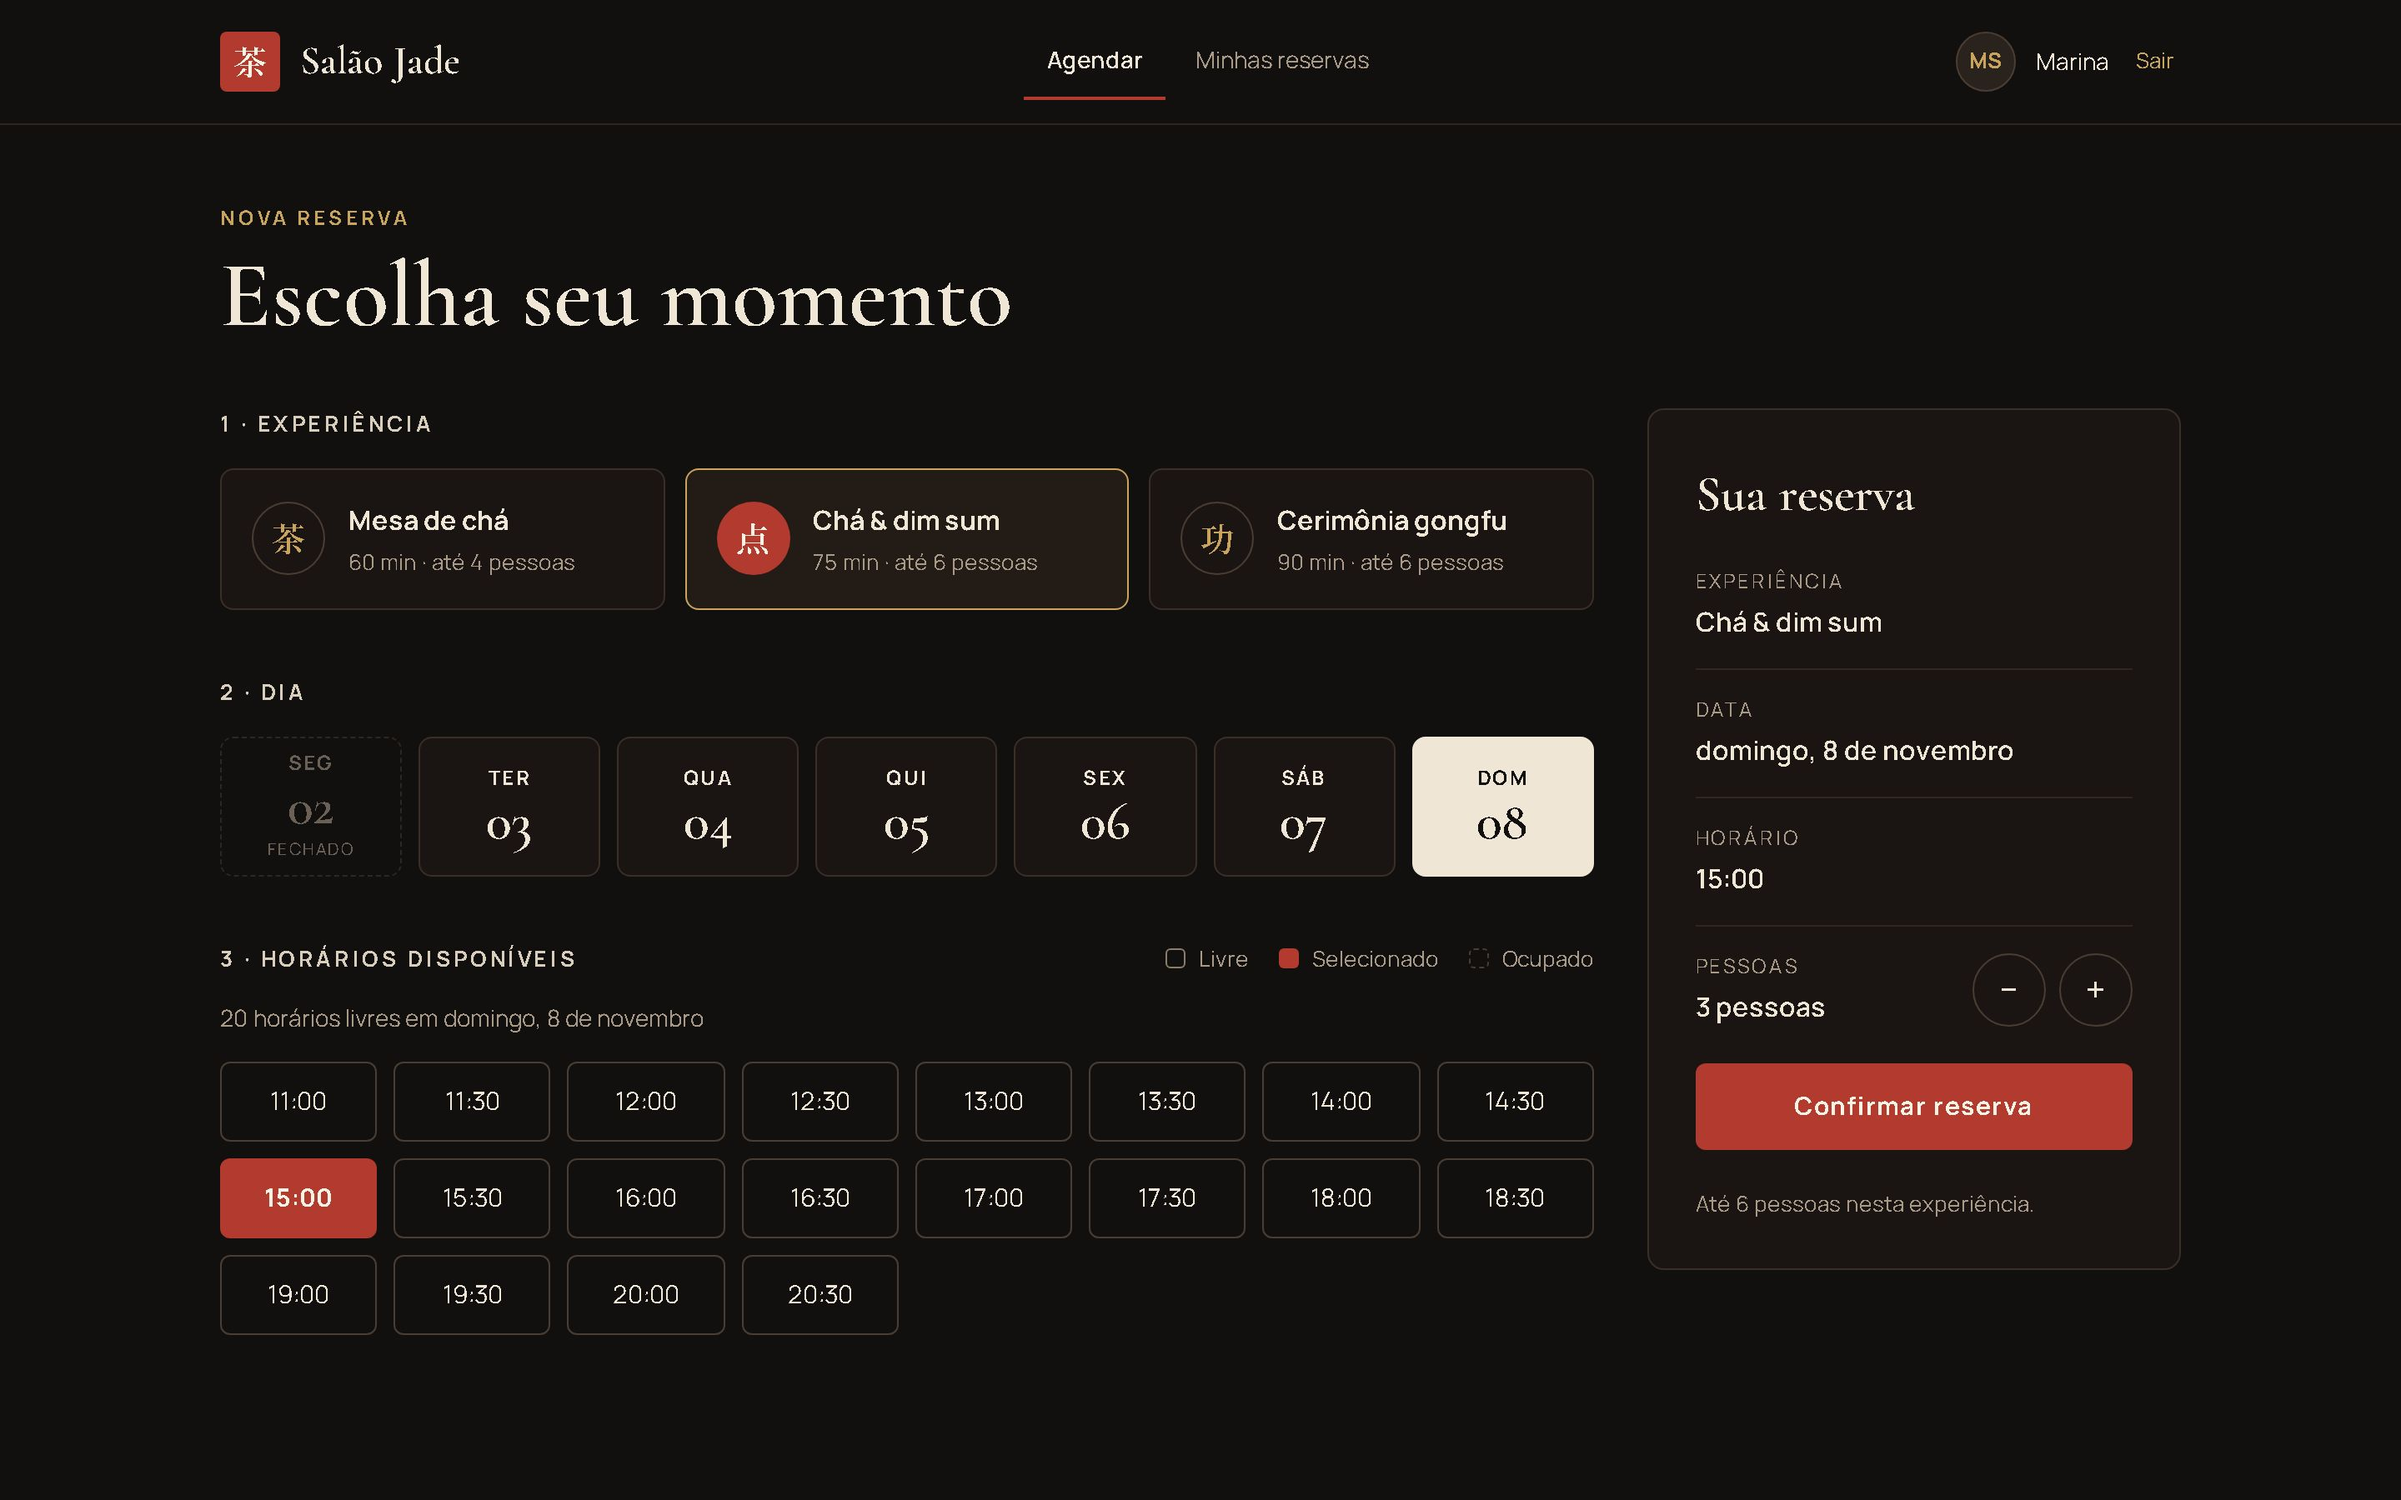
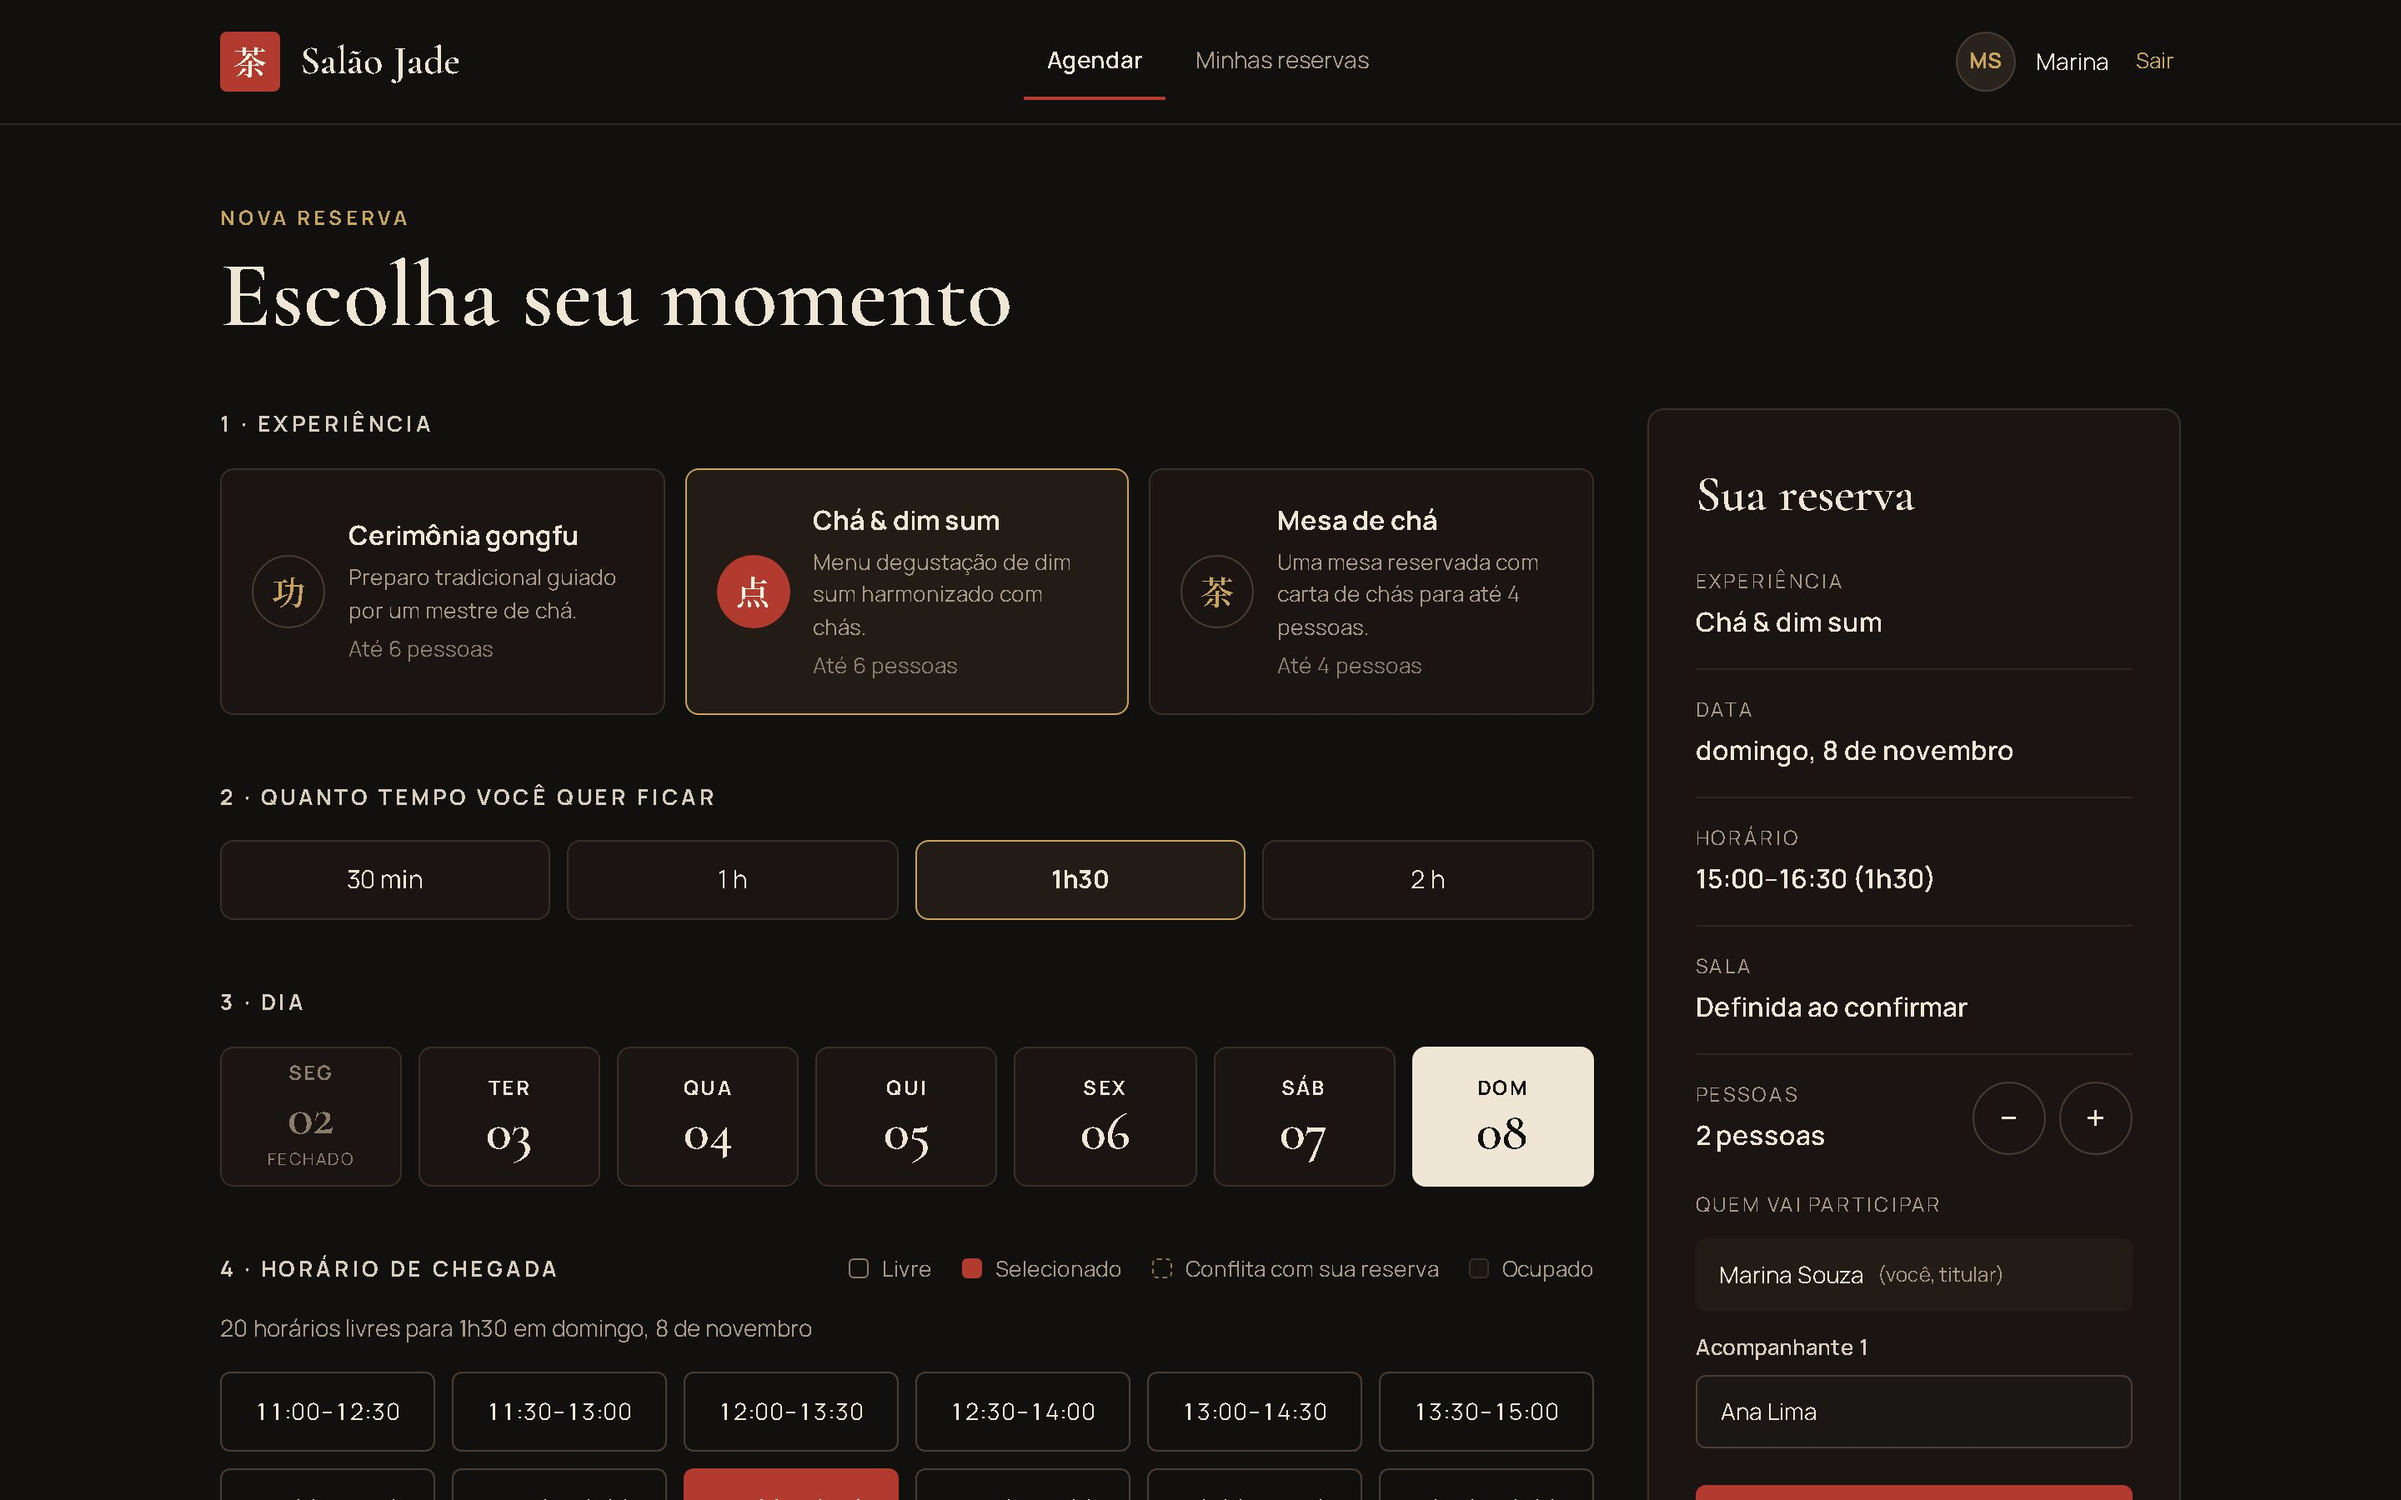
README: prints atualizados com duração, salas, acompanhantes e painel
- Novo print do painel do salão; o teste remove do print qualquer card que não
  seja da conta demo e falha se aparecer e-mail fora de @salaojade.dev, para
  dados reais do banco local nunca irem para o README público
- Prints esperam transições e entradas acabarem, tiram o foco e voltam ao topo

diff --git a/e2e/booking.spec.ts b/e2e/booking.spec.ts
@@ -3,7 +3,14 @@
 import { expect, test, type Page } from "@playwright/test";
 
 const shoot = async (page: Page, name: string) => {
-  if (process.env.SCREENSHOTS) await page.screenshot({ path: `docs/screenshots/${name}.jpg`, quality: 80 });
+  if (!process.env.SCREENSHOTS) return;
+  // Tira o foco (sem anel dourado nem rolagem até o campo), volta ao topo e espera transições e entradas acabarem
+  await page.evaluate(() => {
+    (document.activeElement as HTMLElement | null)?.blur();
+    window.scrollTo(0, 0);
+  });
+  await page.waitForFunction(() => document.getAnimations().every((a) => a.playState !== "running" || a.effect?.getTiming().iterations === Infinity));
+  await page.screenshot({ path: `docs/screenshots/${name}.jpg`, quality: 80 });
 };
 
 test.use({ viewport: { width: 1440, height: 900 }, deviceScaleFactor: 2 });
@@ -13,7 +20,7 @@ test("visitante sem sessão vai para o login", async ({ page }) => {
   await expect(page).toHaveURL(/\/entrar$/);
 });
 
-test("entrar, reservar, ver e cancelar", async ({ page }) => {
+test("entrar, reservar, ver e cancelar", async ({ page, browser }) => {
   await page.goto("/entrar");
   await shoot(page, "entrar");
   await page.getByLabel("E-mail").fill("demo@salaojade.dev");
@@ -29,6 +36,7 @@ test("entrar, reservar, ver e cancelar", async ({ page }) => {
   await expect(page.getByRole("link", { name: "1h30", exact: true })).toHaveAttribute("aria-current", "true");
   await page.locator('section[aria-labelledby="h-dia"] a').last().click();
   await expect(page.locator('section[aria-labelledby="h-dia"] a').last()).toHaveAttribute("aria-current", "date");
+  const day = new URL(page.url()).searchParams.get("dia");
 
   const slot = page.locator('section[aria-labelledby="h-hora"] button[aria-pressed="false"]').nth(8);
   const time = await slot.innerText();
@@ -54,6 +62,29 @@ test("entrar, reservar, ver e cancelar", async ({ page }) => {
   await expect(item).toContainText("1h30");
   await expect(item).toContainText("Ana Lima");
   await shoot(page, "reservas");
+
+  // Print do painel com a reserva ainda viva (cards com participantes e contato do cliente)
+  if (process.env.SCREENSHOTS) {
+    const admin = await browser.newContext({ viewport: { width: 1440, height: 900 }, deviceScaleFactor: 2 });
+    const adminPage = await admin.newPage();
+    await adminPage.goto("/entrar");
+    await adminPage.getByLabel("E-mail").fill("admin@salaojade.dev");
+    await adminPage.getByLabel("Senha").fill("jade-admin-2026");
+    await adminPage.getByRole("button", { name: "Entrar" }).click();
+    await expect(adminPage).toHaveURL(/\/admin$/);
+    await adminPage.goto(`/admin?dia=${day}`);
+    await expect(adminPage.locator("article").filter({ hasText: code })).toBeVisible();
+    // Privacidade: o banco local pode ter contas reais. O print vai para o README público,
+    // então só fica o card da conta demo criado por este teste.
+    await adminPage.evaluate((keep) => {
+      for (const card of document.querySelectorAll("article")) {
+        if (!card.textContent?.includes(keep)) card.closest("li")?.remove();
+      }
+    }, code);
+    await expect(adminPage.locator("body")).not.toContainText(/@(?!salaojade\.dev)[\w.-]+\.\w+/);
+    await shoot(adminPage, "admin");
+    await admin.close();
+  }
 
   await item.getByRole("button", { name: /^Cancelar/ }).click();
   await item.getByRole("button", { name: "Sim, cancelar" }).click();

diff --git a/README.md b/README.md
@@ -6,11 +6,15 @@ remarca ou cancela, sem chance de duas pessoas ficarem com a mesma vaga.
 **Stack:** Next.js 16 (App Router, Server Actions, Cache Components) · TypeScript · Tailwind CSS 4 · PostgreSQL ·
 Prisma 7 · Zod · argon2 · Vitest · Playwright
 
-![Agenda: experiência, dia e horário, com o resumo da reserva ao lado](docs/screenshots/agenda.jpg)
+![Agenda: experiência, duração, dia e horário de chegada, com o resumo e os participantes ao lado](docs/screenshots/agenda.jpg)
 
-| Login | Minhas reservas | Celular |
-|---|---|---|
-| ![Tela de login](docs/screenshots/entrar.jpg) | ![Lista de reservas com remarcar e cancelar](docs/screenshots/reservas.jpg) | ![Agenda no celular](docs/screenshots/agenda-mobile.jpg) |
+| Minhas reservas | Painel do salão |
+|---|---|
+| ![Card da reserva com sala, horário, duração, código e participantes](docs/screenshots/reservas.jpg) | ![Painel do salão: reservas do dia com contato do cliente](docs/screenshots/admin.jpg) |
+
+| Login | Celular |
+|---|---|
+| ![Tela de login com o fluido de chá em infusão](docs/screenshots/entrar.jpg) | ![Agenda no celular](docs/screenshots/agenda-mobile.jpg) |
 
 ## O que dá para fazer
 
